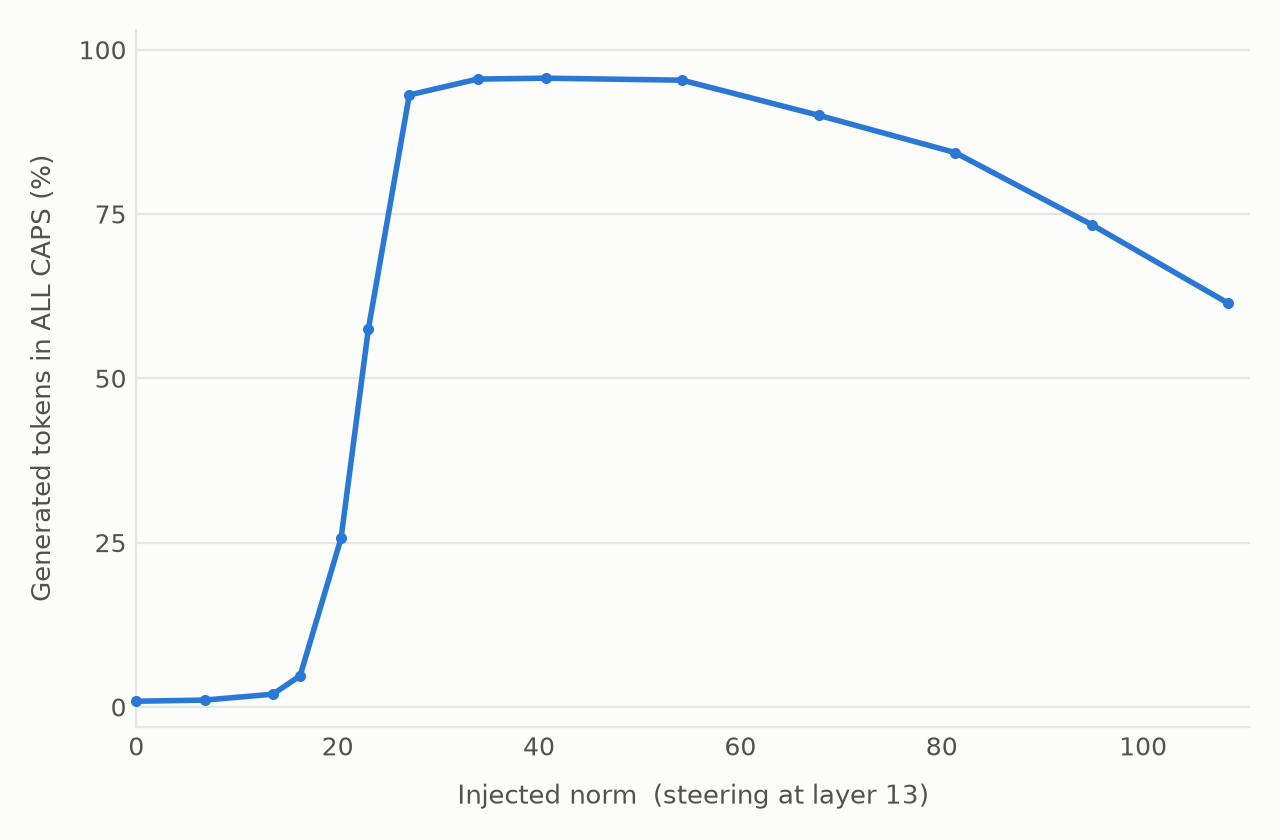
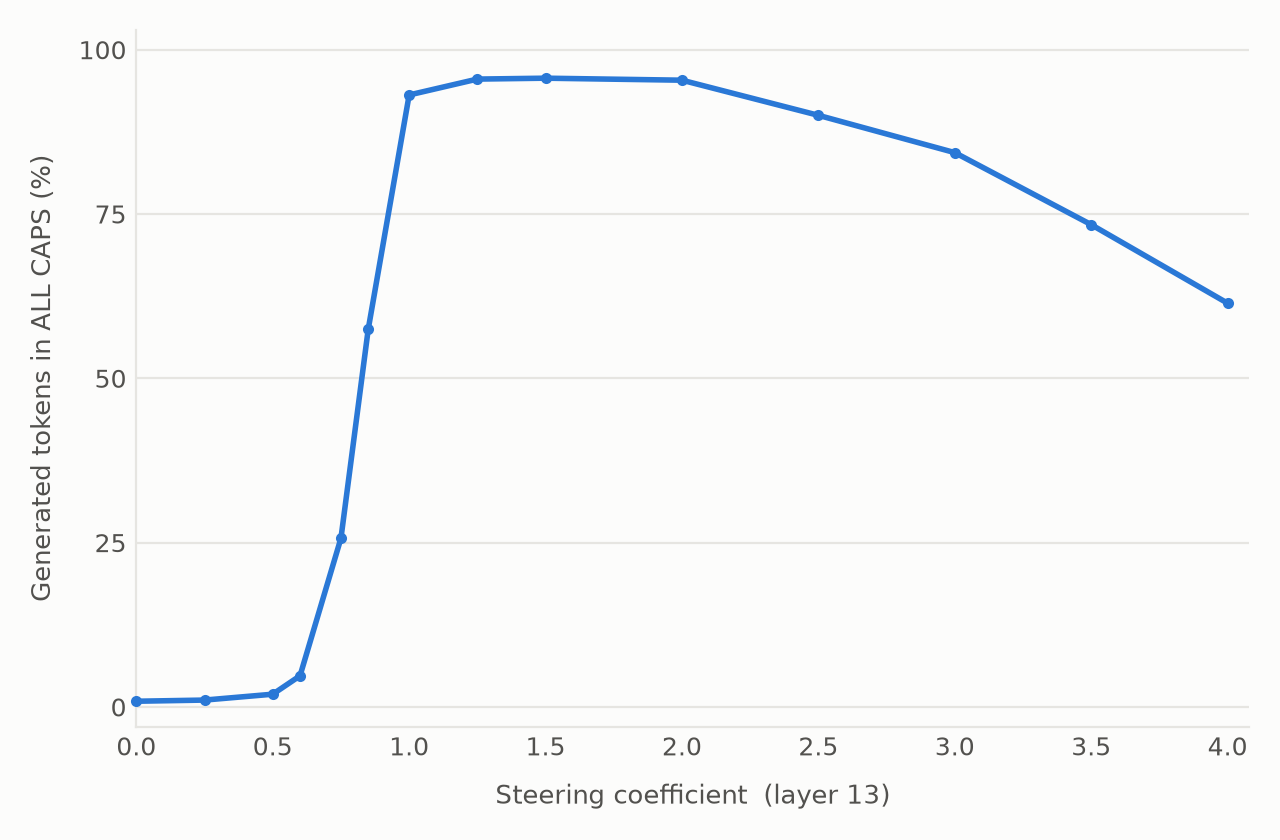
Plot the steering coefficient on the x-axis
Injected norm was a derived quantity introduced to put two side-by-side
panels on one scale. The figures are separate now, so plot the raw
coefficient as originally asked. injected_norm stays in the JSON for
anyone who wants the curves on a common scale.

diff --git a/scripts/plots.py b/scripts/plots.py
@@ -17,7 +17,7 @@ MARKER_SIZE = 4.0
 
 
 def render_sweep(points, xlabel, ylabel, path):
-    x = [point["injected_norm"] for point in points]
+    x = [point["coefficient"] for point in points]
     y = [100 * point["measure"] for point in points]
 
     fig, ax = plt.subplots(figsize=FIGSIZE, dpi=DPI)
@@ -59,13 +59,13 @@ def render_sweep(points, xlabel, ylabel, path):
 def render(caps, refusal, caps_path, refusal_path):
     render_sweep(
         caps["points"],
-        f"Injected norm  (steering at layer {caps['layer']})",
+        f"Steering coefficient  (layer {caps['layer']})",
         "Generated tokens in ALL CAPS (%)",
         caps_path,
     )
     render_sweep(
         refusal["points"],
-        f"Injected norm  (steering at layer {refusal['layer']})",
+        f"Steering coefficient  (layer {refusal['layer']})",
         "Prompts refused (%)",
         refusal_path,
     )

diff --git a/README.md b/README.md
@@ -129,29 +129,31 @@ tokens.
 
 ![refusal sweep](artifacts/steering_eval_refusal.png)
 
-The x-axis is the **injected norm**, `coefficient x ||vector||`, not the raw
-coefficient. The two vectors have very different norms — `caps_L13.pt` ships at
-norm 27.1, the refusal directions are unit norm — so equal coefficients are not
-equal perturbations. Plotting injected norm puts both curves in the same units. Raw
-coefficients are in `steering_eval.json` alongside `injected_norm`.
+The x-axis is the steering coefficient `c` in `resid += c * vector`. Note the
+two figures are not comparable to each other on it: `caps_L13.pt` ships at norm
+27.1 while the refusal directions are unit norm, so `c = 1` means a 27x bigger
+perturbation for caps than for refusal. `steering_eval.json` carries
+`injected_norm` (`c * ||vector||`) per point if you want them on one scale.
 
 **ALL-CAPS**, the share of letter-bearing generated tokens that are all caps.
 Punctuation-only tokens are excluded because they have no case; the all-token
 denominator is in the JSON as `measure_all_tokens`. Baseline 1%. Nothing happens
-below norm 16, then it snaps: 26% at 20, 58% at 23, 93% at 27. It peaks at 96%
-between 34 and 54 and then **decays to 61% by 108** — not because the steering
-weakens but because the model comes apart. At the far end it emits
-`"A GOOD COPPFE is NOT JUSTICE, but also a journey"`. The published vector's own
-scale, 27.1, sits right at the bottom of the usable window.
+below `c = 0.6`, then it snaps: 26% at 0.75, 58% at 0.85, 93% at 1.0. It peaks
+at 96% between 1.25 and 2.0 and then **decays to 61% by 4.0** — not because the
+steering weakens but because the model comes apart. At the far end it emits
+`"A GOOD COPPFE is NOT JUSTICE, but also a journey"`. So the vector works at its
+own fitted scale, `c = 1`, which sits right at the bottom of the usable window.
 
 **Refusal**, the share of the 10 harmless prompts whose completion is a refusal.
-Baseline 0%. Onset at 60, then 30% at 70, 60% at 80, 90% at 90, and 100% from
-100 through 160 with no visible incoherence. Steered hard it declines to explain
-a bicycle gear system.
+Baseline 0%. Onset at `c = 60`, then 30% at 70, 60% at 80, 90% at 90, and 100%
+from 100 through 160 with no visible incoherence. Steered hard it declines to
+explain a bicycle gear system. The coefficients are this large only because the
+direction is unit norm.
 
-So caps saturates at roughly a quarter of the injected norm refusal needs. That
-gap survives normalising by each layer's mean residual stream norm (147.5 at 13,
-198.7 at 15): caps needs about 18% of the residual norm, refusal about 50%.
+Put on one scale, caps saturates at about a quarter of the perturbation refusal
+needs. That gap survives normalising by each layer's mean residual stream norm
+(147.5 at 13, 198.7 at 15): caps needs about 18% of the residual norm, refusal
+about 50%.
 
 ### Why those layers
 
@@ -173,7 +175,7 @@ Sweeping it is the obvious next experiment.
 The detector is a regex over first-person refusal constructions plus apologies.
 A substring list missed real refusals phrased "I do not wish to" and "I am not
 authorized to", so it undercounted and flattened the top of the curve. The regex
-version flags 40/40 of the manually-confirmed refusals at injected norm >= 100
+version flags 40/40 of the manually-confirmed refusals at `c >= 100`
 and 0/40 of the unsteered helpful completions, so it is clean in both directions
 on this data.
 
